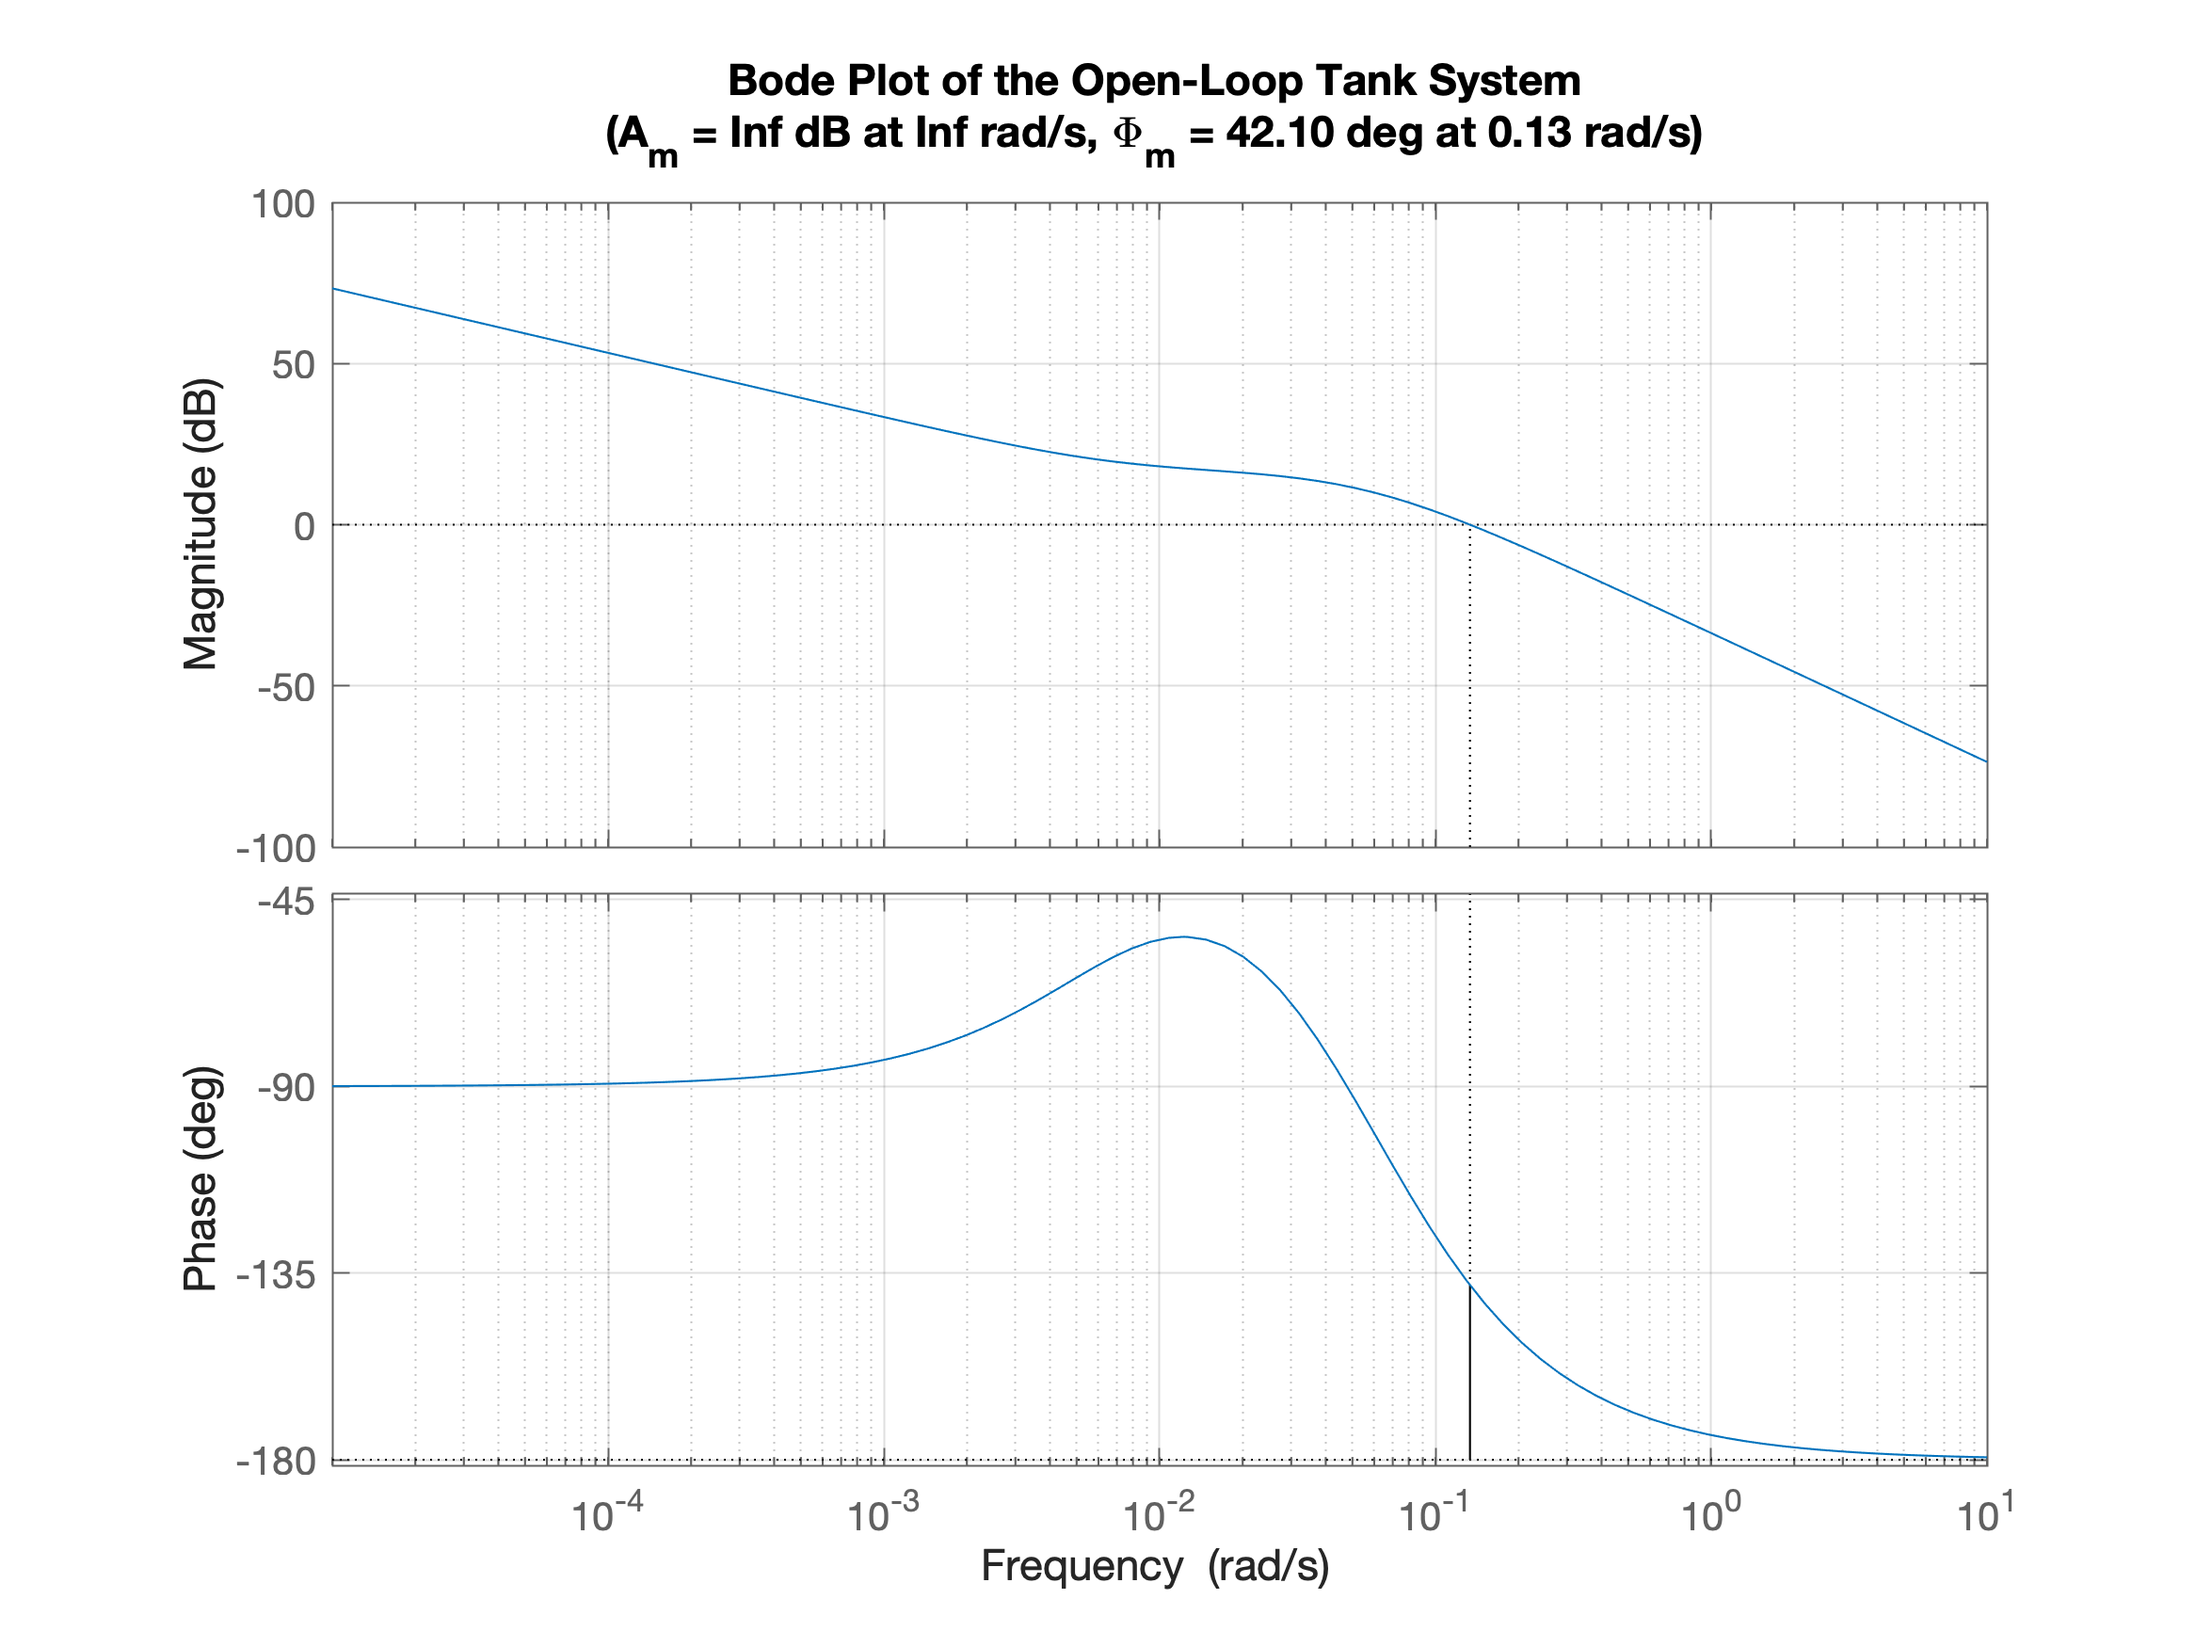
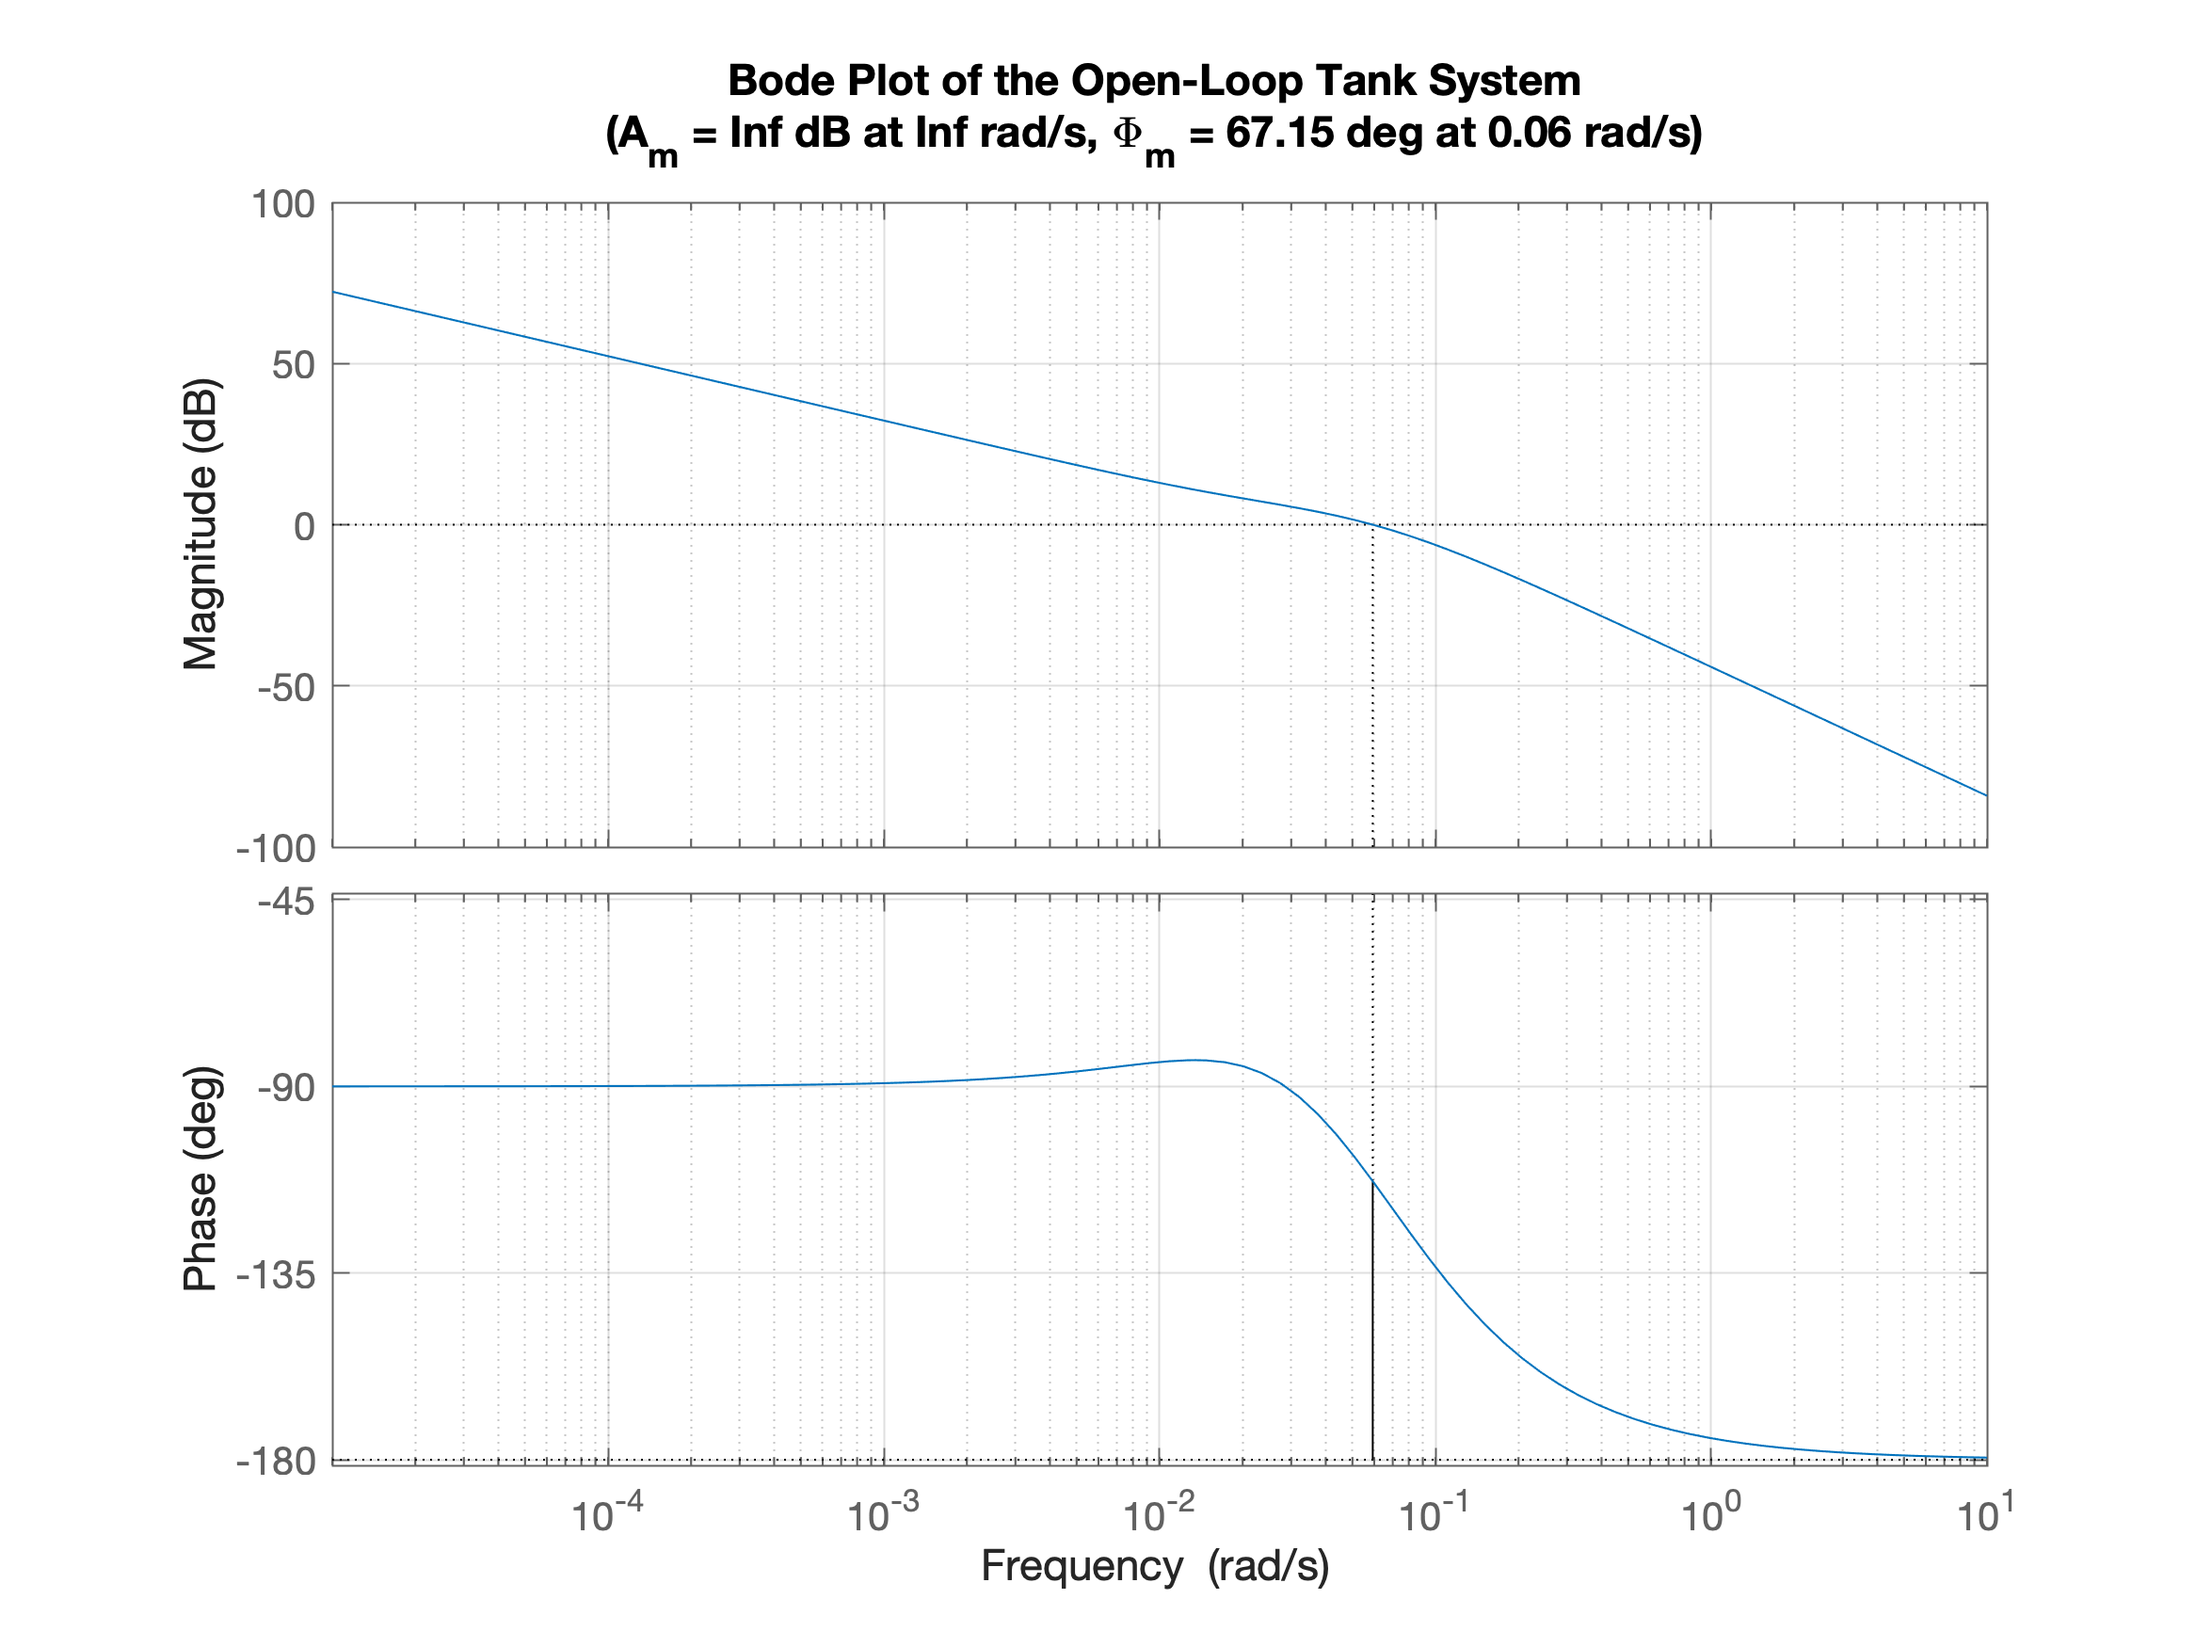
switch to look-up table for set point change in pi model

diff --git a/main.m b/main.m
@@ -22,8 +22,8 @@ grid on;
 %% Output control using loopshaping
 
 % get controller
-Kp = 0.00067;
-Ki = 0.0000045;
+Kp = 0.0002;
+Ki = 0.000004;
 K = pid(Kp,Ki);
 
 % Loop shaping is performed on the open-loop transfer function L(s) = K(s) * G_yv(s).
@@ -34,9 +34,21 @@ L = G*K;
 plot_bode(L(1), {0.00001,10}, "Bode Plot of the Open-Loop Tank System", "bode_plot_pi_controller");
 grid on;
 
+% define time for set point change
+t_final = 1000;
+dt_eps = 1e-6;
+t_ref = [0, 10 - dt_eps, 10, 300 - dt_eps, 300, t_final];
+
+% define height
+r_ref = [0.20, 0.20, 0.22, 0.22, 0.22, 0.22]; 
+
+% disturbance
+p.d = 0;
+
 % simulate
 out_pi = sim("sim_pi_model", "StopTime", "1000");
-plot_results(out_pi, p);
+save_plot = false;
+plot_results(out_pi, p, save_plot);
 
 %% Cascade control
 
@@ -76,7 +88,8 @@ grid on;
 
 % simulate
 out_casc = sim("sim_cascade_model", "StopTime", "1000");
-plot_results(out_casc, p);
+save_plot = false;
+plot_results(out_casc, p, save_plot);
 
 %% Reference Trajectory Design for Nonlinear Backstepping
 % Parameters for the 2nd order reference model (PT2-Filter)
@@ -140,4 +153,5 @@ c_2 = 10.0;
 eps = 1e-5;
 
 out_back = sim("sim_backstepping_model", "StopTime", "1000");
-plot_results(out_back, p);
+save_plot = false;
+plot_results(out_back, p, save_plot);

diff --git a/functions/plot_results.m b/functions/plot_results.m
@@ -1,4 +1,4 @@
-function plot_results(out, p)
+function plot_results(out, p, is_save)
 %UNTITLED Summary of this function goes here
 %   Detailed explanation goes here
 
@@ -19,7 +19,7 @@ function plot_results(out, p)
     hold on;
     plot(time, h2, '-', 'LineWidth', 1.5, 'DisplayName', 'Tank 2');
     ylabel('Fill Level [m]');
-    ylim([0.19, 0.23]);
+    ylim([(min(h2)-0.01), (max(h2)+0.01)]);
     
     % right axis
     yyaxis right
@@ -39,10 +39,12 @@ function plot_results(out, p)
     title(sprintf('Simulation Results: %s', modell_name), 'Interpreter', 'none');
     legend('Location', 'best');
 
-    if ~exist('data', 'dir')
-        mkdir('data');
+    if is_save
+        if ~exist('data', 'dir')
+            mkdir('data');
+        end
+        filename = fullfile('data', [modell_name, '.png']);
+        saveas(gcf, filename);
     end
-    filename = fullfile('data', [modell_name, '.png']);
-    saveas(gcf, filename);
 end
 
